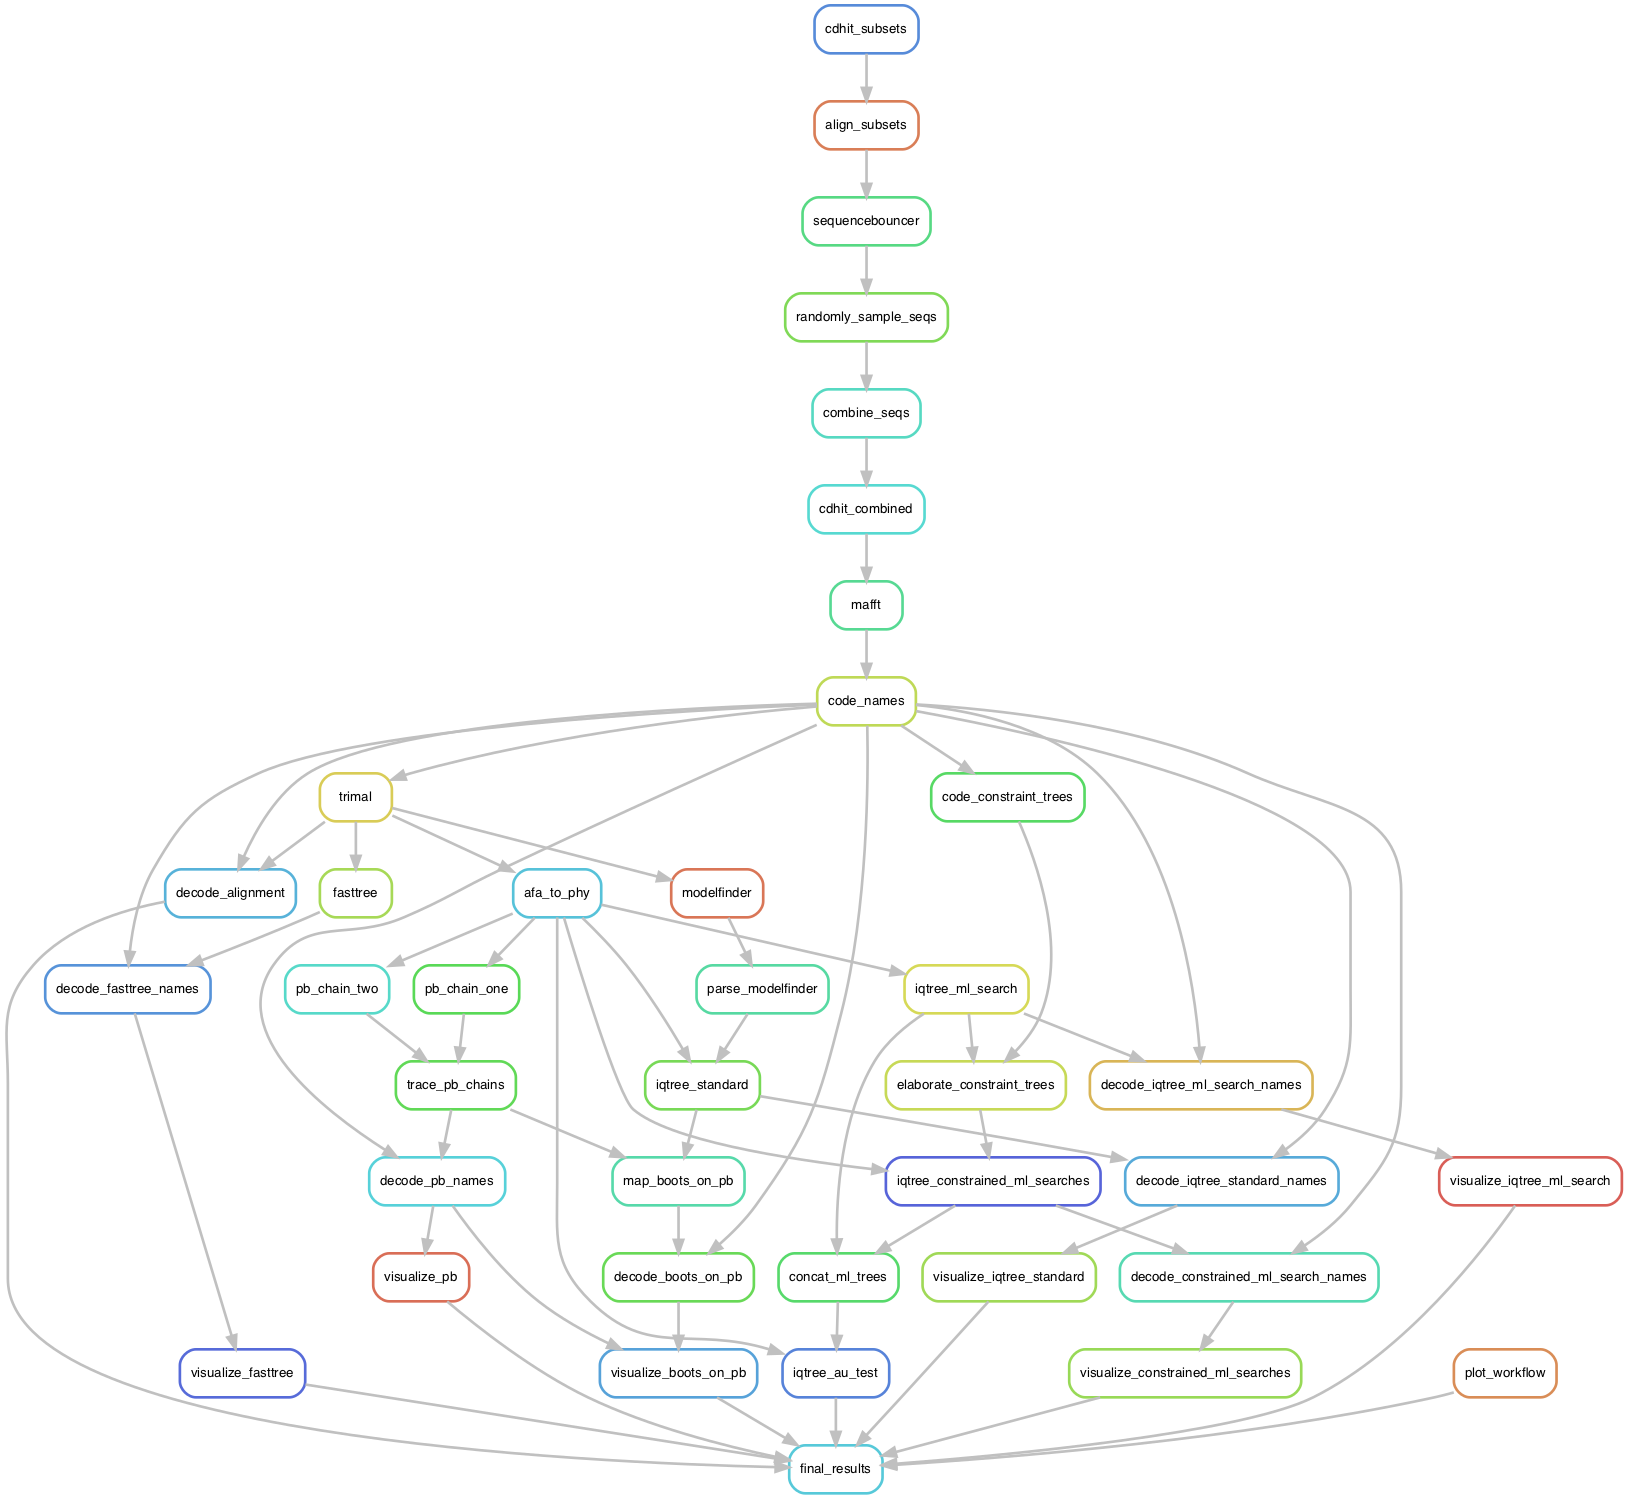
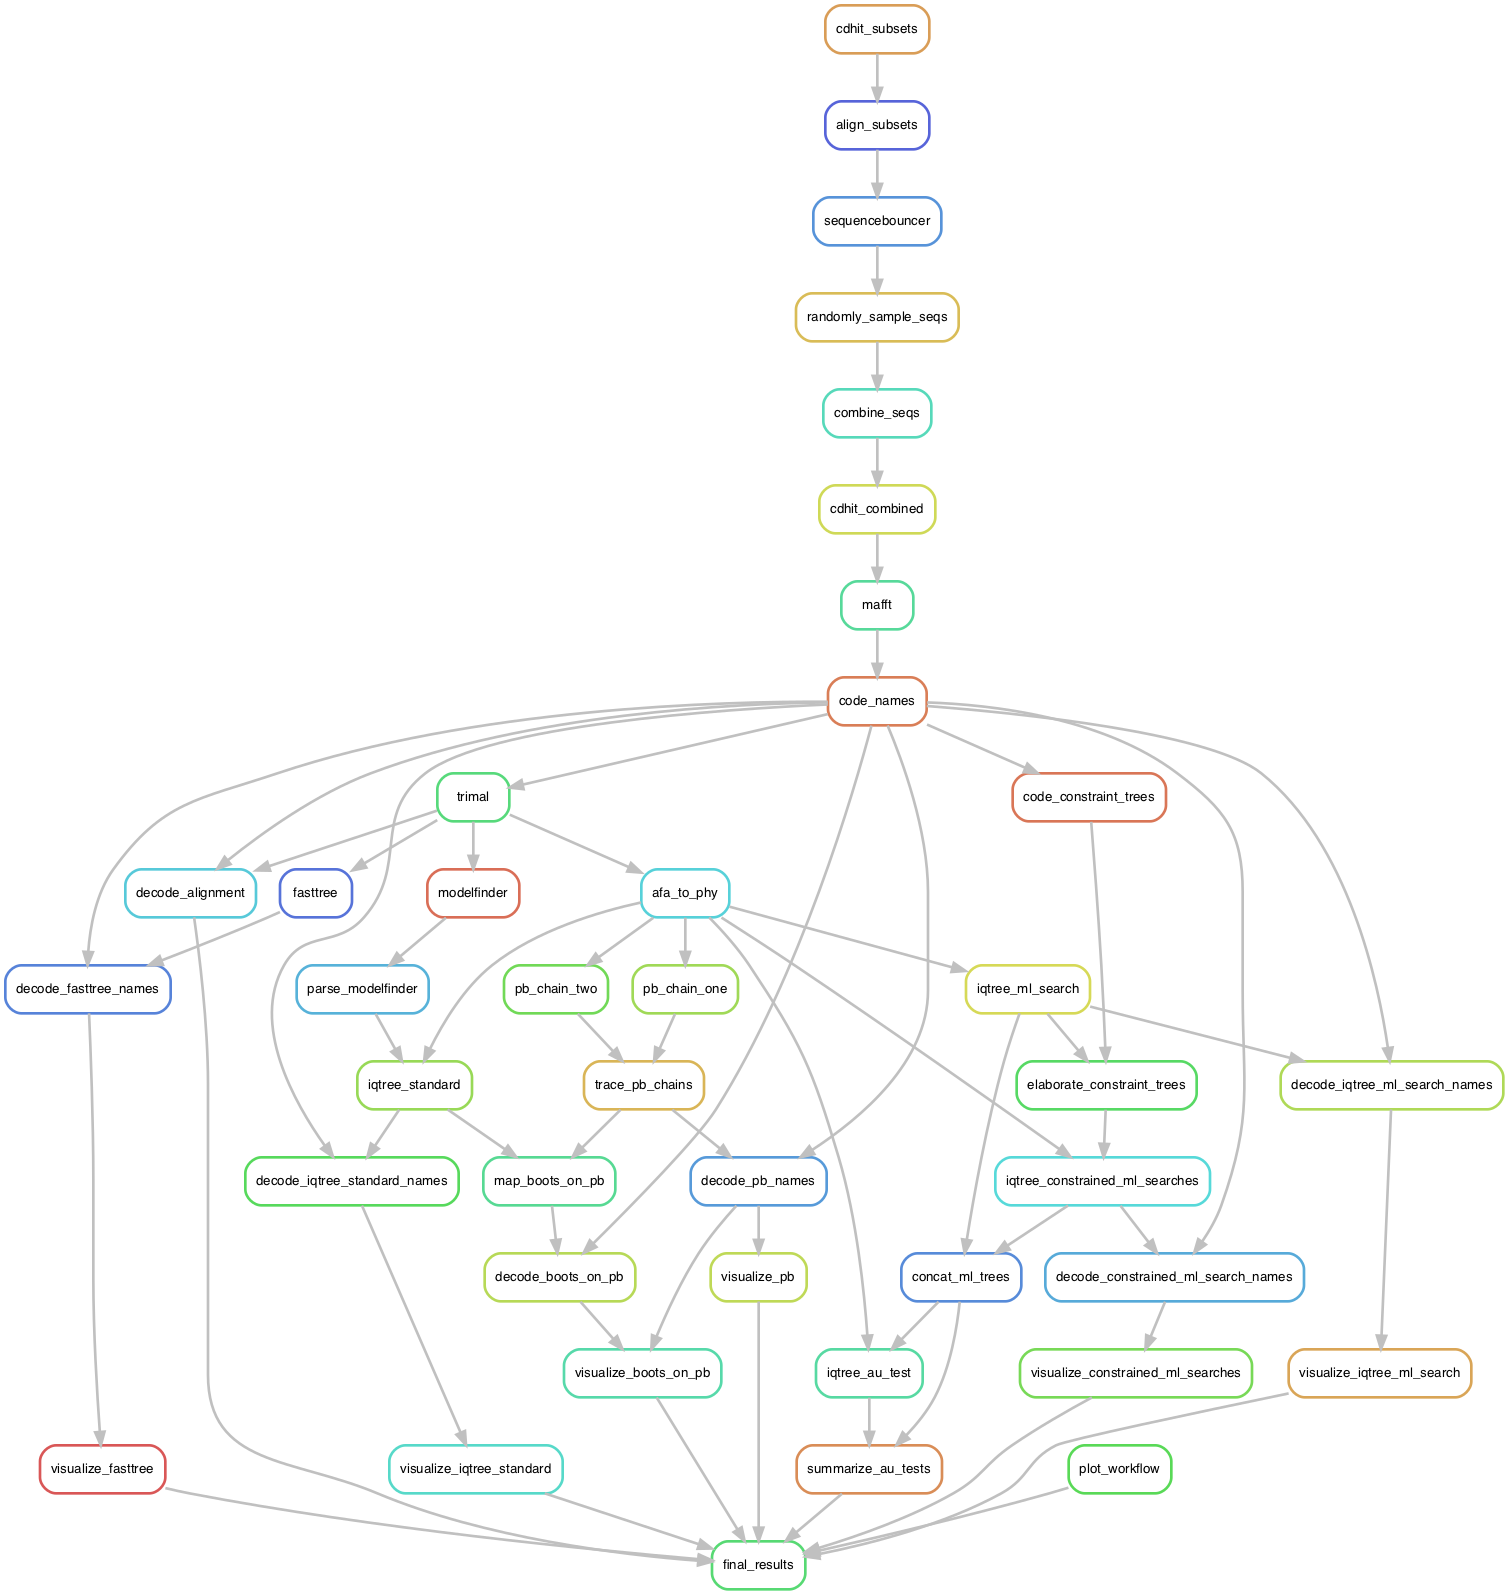
Update README and workflow diagram.

Changed region(s): [[0.0, 0.0, 1.0, 1.0], [0.0311, 0.8899, 0.218, 0.9513], [0.1246, 0.8286, 0.1557, 0.8592]]

diff --git a/README.md b/README.md
@@ -7,7 +7,8 @@
 Perform phylogenetic analysis of one or more sets of predicted peptide
 sequences for homologous genes using both Maximum Likelihood (ML) and Bayesian
 Inference (BI) methods, and generate a phylograms in PDF format with a
-combination of branch ML and BI support values.
+combination of branch ML and BI support values. Focus on relationships among
+clades of orthologues.
 
 
 ## Rationale
@@ -28,7 +29,7 @@ many projects. However, these may not be readily applicable to all projects. In
 particular, some projects investigating evolution of large gene superfamilies
 over long spans of time may benefit from a focus on filtering sequences prior
 to alignment as well as application of Bayesian Inferrence methods for
-phylogenetic analysis. This workflow, Typhaon, provides these additional
+phylogenetic analysis. This workflow provides these additional
 features. Typhaon is also highly reproducible, adaptable, and portable due to
 use of the [Snakemake workflow
 manager](https://snakemake.readthedocs.io/en/stable/).
@@ -36,7 +37,7 @@ manager](https://snakemake.readthedocs.io/en/stable/).
 
 ## Software requirements
 
-- Linux Sun Grid Engine (SGE) computing cluster. This has not been tested on
+- Linux Sun Grid Engine (SGE) computing cluster. This has not yet been tested on
   other cluster types. Only partial functionality is available if installed on
   a Linux or MacOS personal computer. 
 - Python3 and the [Conda package and environment
@@ -152,6 +153,15 @@ resources
   ```
   make archive
   ```
+
+## Caveats
+
+This workflow depends heavily on the assumptions you make when constructing the
+set of input FASTA files. In particular, this workflow assumes that all (or
+almost all) of the sequences within each of the input FASTA files are
+orthologous. So, you need a considerable amount of prior information based on
+exploratory analyses allowing you to make informed judgments about what
+sequences are likely to be orthologous before running this workflow.
 
 ## License
 
